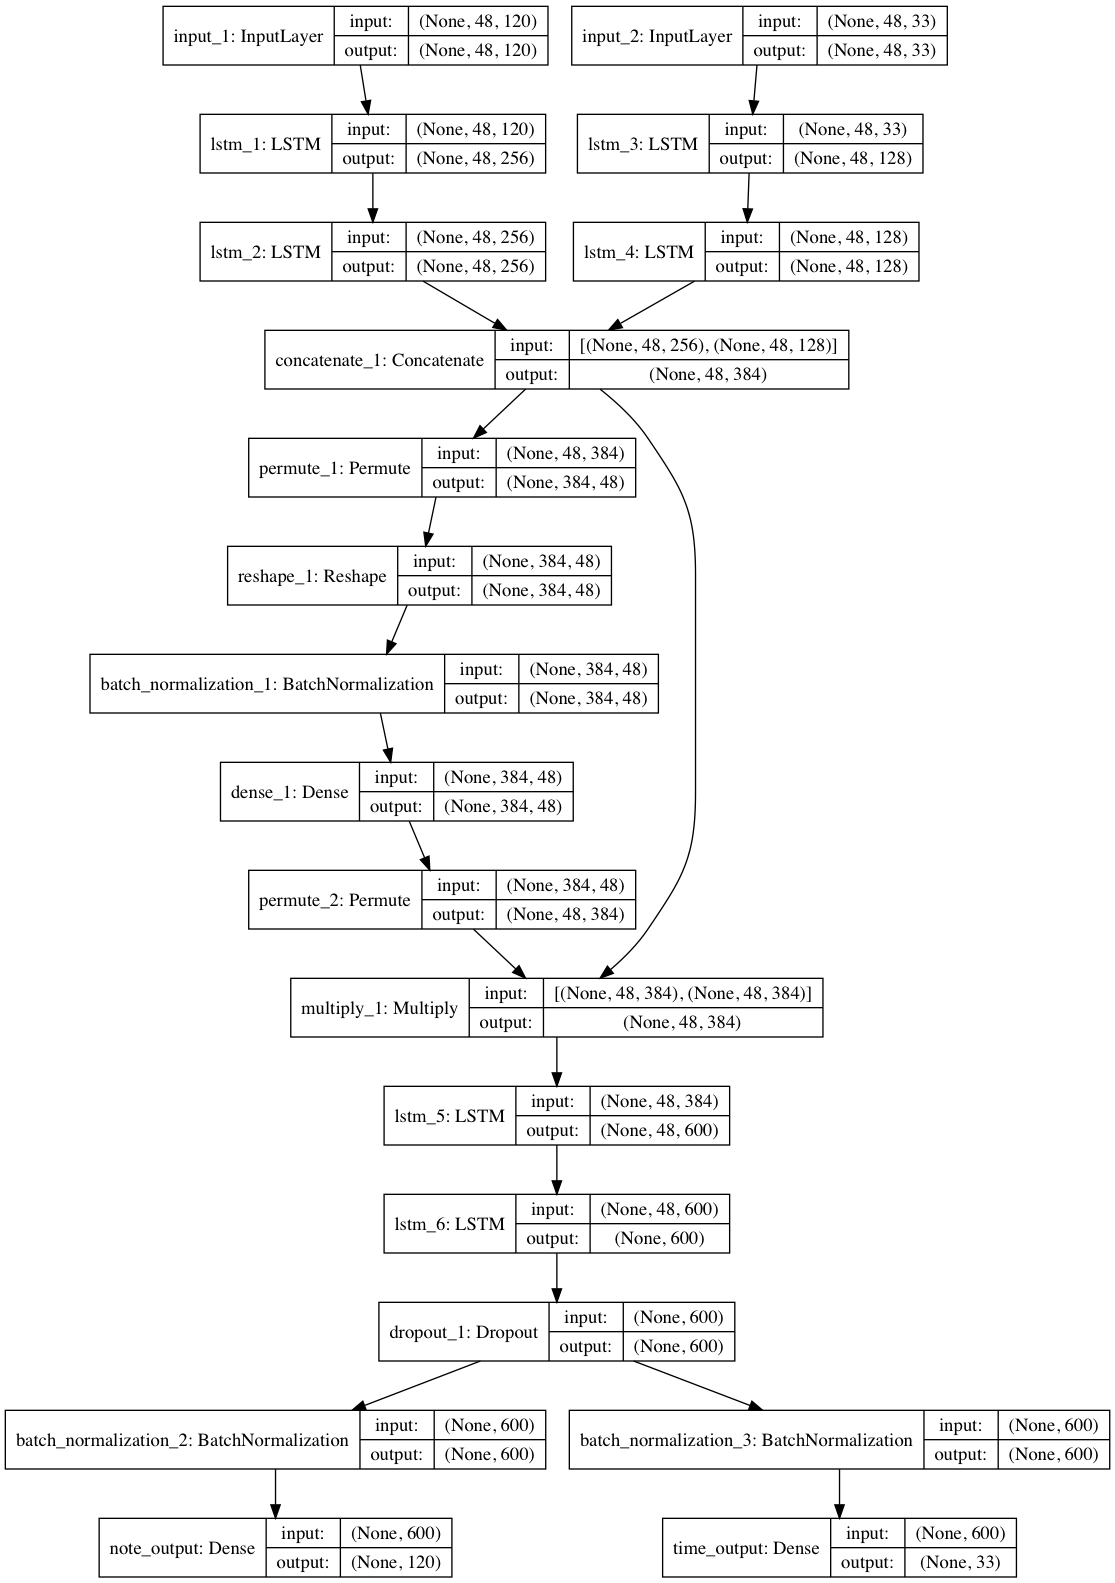
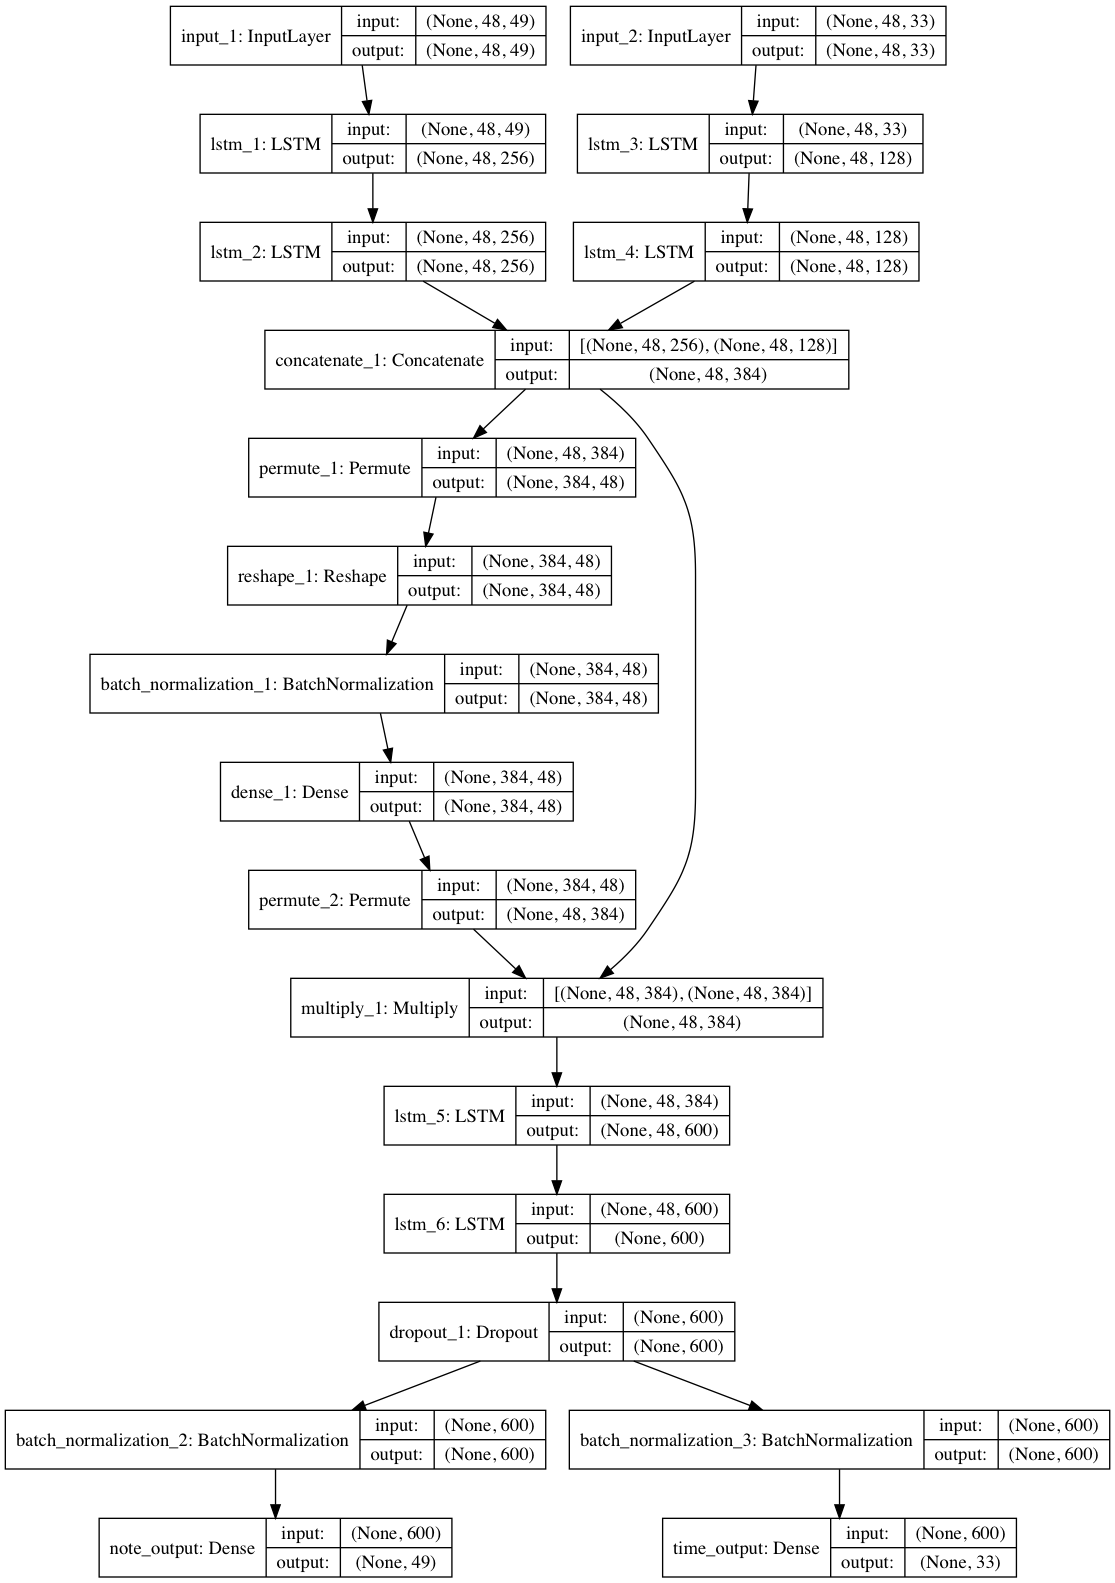
test

diff --git a/multiple_instruments/music_generator.py b/multiple_instruments/music_generator.py
@@ -23,19 +23,17 @@ parser.add_argument('--temp_sd', type=float, default=0.01, required=False,
                     help='Standard deviation of temperture.')
 parser.add_argument('--finger_number', type=int, default=5, required=False,
                     help='Maximum number of notes play at the same time.')
-parser.add_argument('--align_melody', type=int, default=4, required=False,
+parser.add_argument('--align', type=int, default=4, required=False,
                     help='Main melody alignment.')
-parser.add_argument('--align_accompany', type=int, default=8, required=False,
-                    help='Accompany alignment.')
 parser.add_argument('--bpm', type=float, default=120.0, required=False,
                     help='Bpm (speed)')
-parser.add_argument('--wake_up', type=int, default=0, required=False,
-                    help='Wake up one of the tracks if it fell asleep...')
 parser.add_argument('--do_format', action='store_true', default=False,
                     help='Format data before sending into model...')
 parser.add_argument('--debug', action='store_true', default=False,
                     help='Fix random seed')
 parser.add_argument('--sticky', action='store_true', default=False,
+                    help='')
+parser.add_argument('--pitch_shift', type=int, default=0, required=False,
                     help='')
 
 args = parser.parse_args()
@@ -45,12 +43,7 @@ temperature_note = args.note_temp
 temperature_delta = args.delta_temp
 temperature_sd = args.temp_sd
 finger_limit = args.finger_number
-align_right = args.align_melody
-align_left  = args.align_accompany
-gcd_align = gcd(align_right, align_left)
-lcm_align = align_right//gcd_align * align_left
-wake_up = args.wake_up
-wake_up_w = wake_up*lcm_align ## threshold
+align = args.align
 do_format = args.do_format
 
 if args.debug:
@@ -63,9 +56,7 @@ defaultUnit = 500000
 changedSpeed= int(round(500000.0/speedRatio))
 
 segLen=48
-track_num=2
-maxrange=60 #[36, 95]
-vecLen=maxrange*track_num
+vecLen=49 #[-24, +24]
 maxdelta=33 #[0, 32]
 
 import keras
@@ -73,7 +64,6 @@ from keras.models import Sequential, load_model
 
 def sample(preds, temperature=1.0, temperature_sd=0.05):
     temperature += np.random.randn()*temperature_sd ## add some noise
-    #print('temp: %.2f' % temperature)
     if temperature < 1e-9:
         return np.argmax(preds)
     preds = np.asarray(preds).astype('float64')
@@ -90,73 +80,53 @@ def main():
     seed = np.load('./seed.npz')
     seedIdx = np.random.randint(len(seed['notes']))
     output = midi.Pattern(resolution=16) ## reduce dimension of ticks...
-    track = [midi.Track() for _ in xrange(track_num)]
-    for i in xrange(track_num):
-        output.append(track[i])
+    track = midi.Track()
+    output.append(track)
+    track.append(midi.SetTempoEvent(tick=0, data=[(changedSpeed>>16) &0xff, (changedSpeed>>8) &0xff, changedSpeed &0xff]))
     notes = np.zeros((1, segLen, vecLen))
     deltas = np.zeros((1, segLen, maxdelta))
     notes[:,:,:] = seed['notes'][seedIdx,:,:]
     deltas[:,:,:] = seed['times'][seedIdx,:,:]
     seed = None ## release
-    last = np.zeros(track_num)
-    for _ in xrange(track_num):
-        last[_] = -1
-    tickAccum = 0
-    sleepy = 0 ## to measure sleepiness !?!?
+    note = args.pitch_shift
+    assert note>=0 and note<=127
+    tickAccum=0
     for i in xrange(noteNum):
         pred_note, pred_time = model.predict([notes, deltas], batch_size=1, verbose=0)
-        for inst in xrange(track_num):
-            zs = 1 ## how many notes play at the same time? self += 1
-            for t in reversed(range(len(track[inst]))): ## this limits # of notes play at the same time
-                if hasattr(track[inst][t], 'tick'):
-                    if isinstance(track[inst][t], midi.NoteOnEvent):
-                        pred_note[0][(track[inst][t].data[0]-36)+inst*maxrange] = 1e-100
-                    if track[inst][t].tick==0:
-                        zs += 1 ## others
-                    else:
-                        break
-            if zs>=finger_limit: ## no more fingers
-                pred_time[0][0] = 1e-100
-        if wake_up>0: ## check if a track fell asleep
-            if sleepy>0 and sleepy>=wake_up_w:
-                pred_note[0][:maxrange] = 1e-100
-            elif sleepy<0 and -sleepy>=wake_up_w:
-                pred_note[0][maxrange:] = 1e-100
-        key = int(sample(pred_note[0], temperature_note, temperature_sd))
-        note = key  % maxrange
-        inst = key // maxrange
+        zs = 1 ## how many notes play at the same time? self += 1
+        for t in reversed(range(len(track))): ## this limits # of notes play at the same time
+            if hasattr(track[t], 'tick'):
+                if track[t].tick==0:
+                    zs += 1 ## others
+                else:
+                    break
+        if zs>=finger_limit: ## no more fingers
+            pred_time[0][0] = 1e-100
+        if note-24<0:
+            pred_note[0][:(24-note)] = 1e-100
+        elif note+24>127: ## 127-note<24
+            pred_note[0][(127-note-24+vecLen):] = 1e-100
+        key =  int(sample(pred_note[0], temperature_note, temperature_sd)) ## [-24~+24]
+        note += (key-24)
+        note = max(0, note)
+        note = min(127, note)
         delta = int(sample(pred_time[0], temperature_delta, temperature_sd))
-        align = align_right if inst==0 else align_left
-        if last[inst]==-1:
-            track[inst].append(midi.SetTempoEvent(tick=0, data=[(changedSpeed>>16) &0xff, (changedSpeed>>8) &0xff, changedSpeed &0xff]))
-            track[inst].append(midi.ProgramChangeEvent(tick=0, data=[0], channel=0)) ## first event: program change to piano
-            last[inst]=0
-        diff = int(tickAccum - last[inst]) ## how many ticks passed before it plays
         if align>1:
             new_reach = tickAccum+delta ## accum ticks before this event + this key plays after received signal?
             if new_reach % align != 0: ## if not aligned
                 new_reach += align-(new_reach%align)
             delta = min(32, max(0, new_reach - tickAccum)) ## aligned tick
-            #print('%d: %d' % (inst,new_reach%align))
-        ## note alignment:
-        while diff>127:
-            track[inst].append(midi.ControlChangeEvent(tick=127, channel=0, data=[3, 0])) ## append 'foo' event (data[0]==3 -> undefine)
-            diff-=127
-        if diff>0:
-            track[inst].append(midi.ControlChangeEvent(tick=diff, channel=0, data=[3, 0])) ## append 'foo' event
-
         ## note on:
         if args.sticky:
-            for t in reversed(range(len(track[inst]))):
-                if isinstance(track[inst][t], midi.NoteOffEvent):
+            for t in reversed(range(len(track))):
+                if isinstance(track[t], midi.NoteOffEvent):
                     break
-                elif isinstance(track[inst][t], midi.NoteOnEvent):
-                    findLastNoteOn = track[inst][t].data[0]
-                    track[inst].append(midi.NoteOffEvent(tick=0, data=[ findLastNoteOn, 0]))
+                elif isinstance(track[t], midi.NoteOnEvent):
+                    findLastNoteOn = track[t].data[0]
+                    track.append(midi.NoteOffEvent(tick=0, data=[ findLastNoteOn, 0]))
                     break
-        track[inst].append(midi.NoteOnEvent(tick=delta, data=[ int(note+36), 127]))
+        track.append(midi.NoteOnEvent(tick=delta, data=[ int(min(127,max(0,note))), 127]))
         tickAccum += delta
-        last[inst] = tickAccum
         notes = np.roll(notes, -1, axis=1)
         deltas = np.roll(deltas, -1, axis=1)
         notes[0, segLen-1, :]=0 ## reset last event
@@ -175,12 +145,10 @@ def main():
                     notes[0, t, ln] = 1
                     notes[0, t-1, rn] = 1
                 else: break
-        sleepy += align_right if inst==0 else -align_left ## compute score, more notes on sheet -> more active
         print('processed: ', i+1, '/', noteNum)
-    for i in xrange(track_num):
-        if args.sticky and len(track[i])>0 and isinstance(track[i][-1], midi.NoteOnEvent):
-            track[i].append(midi.NoteOffEvent(tick=0, data=[ track[i][-1].data[0], 0]))
-        track[i].append( midi.EndOfTrackEvent(tick=0) )
+    if args.sticky and len(track)>0 and isinstance(track[-1], midi.NoteOnEvent):
+        track.append(midi.NoteOffEvent(tick=0, data=[ track[-1].data[0], 0]))
+    track.append( midi.EndOfTrackEvent(tick=0) )
     midi.write_midifile(tar_midi, output)
 
 if __name__ == "__main__":

diff --git a/multiple_instruments/tools.py b/multiple_instruments/tools.py
@@ -10,9 +10,7 @@ import os.path
 
 step_size=1
 segLen=48
-track_num=2
-maxrange=60 ## [36, 95]
-vecLen=maxrange*track_num
+vecLen=49 ## [-24~+24]
 maxdelta=33 ## [0, 32]
 defaultRes=16.0
 
@@ -21,7 +19,7 @@ def purge(x):
     y = [x[-1]] #pick last element
     i = len(x)-2 # iterate over all set in reversed order
     while i>=0:
-        while i>=0 and x[i][1] == y[-1][1] and x[i][2] == y[-1][2]: ## overlapped, find next different note
+        while i>=0 and x[i][1] == y[-1][1]: ## overlapped, find next different note
             i -= 1
         if i>=0: ## founded
             y.append(x[i])
@@ -36,17 +34,15 @@ def Tempo2BPM(x):
 ## merge all tracks into one track
 
 def pattern2map(pattern, maxtick):
+    if pattern.format!=1 or len(pattern)==0: raise Exception('Wrong file format!')
     ResScale = float(pattern.resolution) / float(defaultRes)
-    instrument = -1
-    data=[(0.0,0)]#tick , key (main+accompany)
+    data=[(0.0, 0)]#tick , key (main+accompany)
     for track in pattern: ## main melody if instrument==0 else accompany
-        if instrument==1: break ## if main & accompany is set, then break.
-        temp=[(0.0,0)] #tick, note, instrument
+        temp=[(0.0, 0)] #tick, note, instrument
         speedRatio = 1.0
         Normal = 120.0
         accumTick = 0.
         firstTempo = True
-        noteOnDetected = False
         for v in track:
             if hasattr(v, 'tick') :
                 accumTick = accumTick + float(v.tick)/speedRatio
@@ -57,23 +53,27 @@ def pattern2map(pattern, maxtick):
                     firstTempo = False ## not first event anymore
                     continue ## no change on unit of ticks
                 speedRatio = float(changeBPM)/float(Normal)
-            elif isinstance(v, midi.NoteOnEvent) and v.data[0]>=36 and v.data[0]<=95 and v.data[1]>0:
-                if not noteOnDetected: instrument+=1
-                noteOnDetected = True
-                note = (v.data[0]-36)+instrument*maxrange
-                temp.append((accumTick, note, instrument))
+            elif isinstance(v, midi.ProgramChangeEvent):
+                if v.channel==9 or v.data[0] < 24:  ## is drum or is not keyboard instrument
+                    temp=[(0.0, 0)]
+                    break
+            elif isinstance(v, midi.NoteOnEvent) and v.data[1]>0:
+                note = v.data[0]
+                temp.append((accumTick, note))
         temp = temp[1:-1]
         data.extend(temp)
     data = list(set(data)) ## remove duplicate data
+    if len(data)<2: raise Exception('No events!')
     data.sort()
     data = purge(data)
     for i in range(0, len(data)-1):
         tick = data[i+1][0] - data[i][0]
         tick = int(round(tick/ResScale)) ## adjust resolution, downsampling
         tick = maxtick if tick>maxtick else tick ## set a threshold
-        note = data[i+1][1]
-        inst = data[i+1][2]
-        data[i] = (tick,note,inst)
+        note = (0 if i==0 else data[i+1][1] - data[i][1]) + 24
+        note = max(0, note)
+        note = min(vecLen-1, note)
+        data[i] = (tick,note)
     data = data[0:-2] ## data must have two elements. ow crashs
     return data
 

diff --git a/multiple_instruments/seed_generator.py b/multiple_instruments/seed_generator.py
@@ -12,9 +12,7 @@ from tools import *
 
 step_size=1
 segLen=48
-track_num=2
-maxrange=60 ## [36, 95]
-vecLen=maxrange*track_num
+vecLen=49
 maxdelta=33 ## [0, 32]
 Normal=120.0
 defaultRes=16.0
@@ -25,10 +23,13 @@ def main():
     seedDir = str(sys.argv[1])
     fileDir = os.listdir(str(seedDir))
     for filename in fileDir:
-        fullfile = str(seedDir)+'/'+str(filename)
-        pattern = midi.read_midifile(fullfile)
-        data = pattern2map(pattern,maxdelta-1)
-        note, time = firstState(data, segLen)
+        try:
+            fullfile = str(seedDir)+'/'+str(filename)
+            pattern = midi.read_midifile(fullfile)
+            data = pattern2map(pattern,maxdelta-1)
+            note, time = firstState(data, segLen)
+        except:
+            continue
         if notes is None or times is None:
             notes = note
             times = time

diff --git a/multiple_instruments/train.py b/multiple_instruments/train.py
@@ -63,9 +63,7 @@ epochs_delta = args.epochs_delta
 samples_per_epoch = args.sample_per_epoch
 step_size=1
 segLen=48
-track_num=2
-maxrange=60 ## [36, 95]
-vecLen=maxrange*track_num
+vecLen=49
 maxdelta=33 ## [0, 32]
 batch_size = args.batch_size
 hidden_delta=128

diff --git a/multiple_instruments/load.py b/multiple_instruments/load.py
@@ -23,8 +23,7 @@ compute_precision='float32'
 learning_rate = 0.002
 epochs = 1
 segLen=48
-track_num=2
-vecLen=60*track_num ## two tracks
+vecLen=49 ## [-24~+24]
 maxdelta=33 ## [0,32]
 maxpower=64
 batch_size=1

diff --git a/multiple_instruments/summary.py b/multiple_instruments/summary.py
@@ -23,8 +23,7 @@ compute_precision='float32'
 learning_rate = 0.002
 epochs = 1
 segLen=48
-track_num=2
-vecLen=60*track_num ## two tracks
+vecLen=49 ## [-24~+24]
 maxdelta=33 ## [0,32]
 maxpower=64
 batch_size=1
